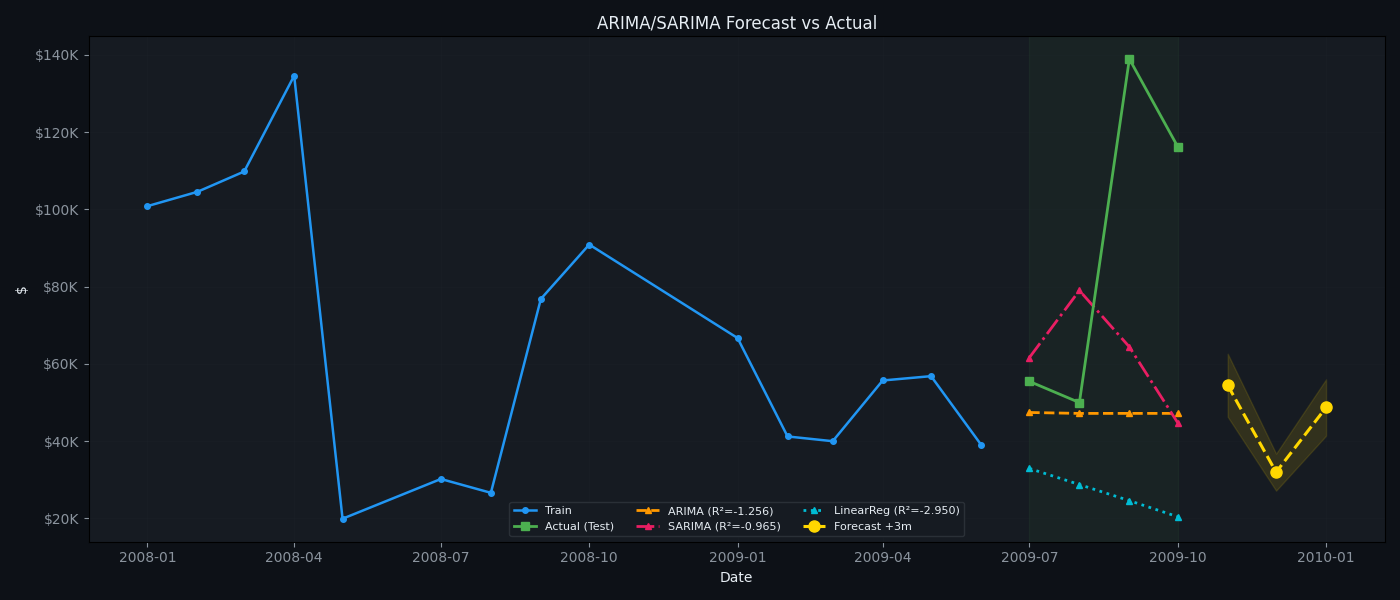
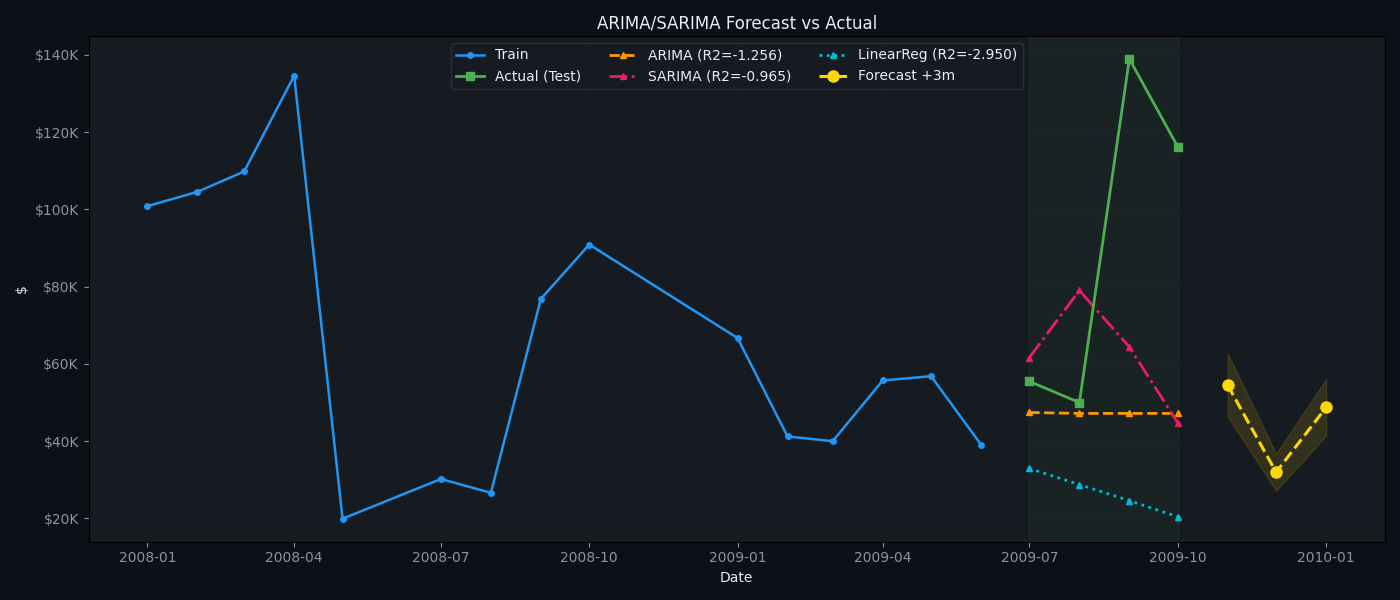
add mlp and lstm

diff --git a/lab-7.py b/lab-7.py
@@ -3,12 +3,16 @@ import numpy as np
 import pandas as pd
 import matplotlib.pyplot as plt
 import matplotlib.ticker as mticker
+from matplotlib.colors import LinearSegmentedColormap
 from statsmodels.tsa.statespace.sarimax import SARIMAX
 from statsmodels.tsa.stattools import adfuller, acf, pacf
 from statsmodels.tsa.seasonal import seasonal_decompose
 from sklearn.linear_model import LinearRegression
 from sklearn.metrics import mean_squared_error, mean_absolute_error, r2_score
-
+from sklearn.preprocessing import MinMaxScaler
+import tensorflow as tf
+from tensorflow import keras
+from tensorflow.keras import layers, callbacks
 
 SEP = "=" * 67
 
@@ -110,14 +114,26 @@ def main():
     arima = arima_res["ARIMA"]
     sarima = arima_res["SARIMA"]
     linear_reg = arima_res["LinearReg"]
+    n_test = arima_res["n_test"]
 
     print(f" ARIMA(1,1,1):  RMSE={arima['rmse']:>10,.2f}  R2={arima['r2']:.4f}  AIC={arima['fit'].aic:.1f}")
     print(f" SARIMA(1,1,1)(1,0,1,4): RMSE={sarima['rmse']:>10,.2f}  R2={sarima['r2']:.4f}  AIC={sarima['fit'].aic:.1f}")
     print(f" Linear Regression (baseline): RMSE={linear_reg['rmse']:>10,.2f}  R2={linear_reg['r2']:.4f}")
-    print(f"\n  Прогноз ({arima_res['best_key']}) на 3 місяці вперед:")
+    
+    print(f"\n  Forecast ({arima_res['best_key']}) 3 months ahead:")
     idx = pd.date_range(arima_res["ts_pos"].index[-1] + pd.DateOffset(months=1), periods=3, freq="MS")
     for d, v in zip(idx, arima_res["forecast_3m"][-3:]):
-        print(f"    {d.strftime('%Y-%m')}: ${v:>10,.2f}")
+        print(f"  {d.strftime('%Y-%m')}: ${v:>10,.2f}")
+
+
+    print(f"\n{SEP}")
+    ann_res = fit_ann(monthly, n_test)
+    print(f"\n  Architecture |  RMSE      |  R2")
+    for arch in ["MLP", "LSTM"]:
+        print(f"  {arch:<12} | {ann_res[arch]['rmse']:>10,.2f} | {ann_res[arch]['r2']:.4f}")
+
+    print(f"\n  Best ANN-architecture: {ann_res['best']}")
+
 
 
     plot_monthly_revenue_stacked(monthly, "l7_monthly_revenue.png")
@@ -134,6 +150,14 @@ def main():
     
     plot_arima_forecast(arima_res, "l7_arima_forecast.png")
 
+    plot_ann_learning_curve(ann_res, "MLP", "l7_mlp_learning.png")
+    plot_ann_learning_curve(ann_res, "LSTM", "l7_lstm_learning.png")
+    plot_ann_forecast(ann_res, "MLP", monthly, "l7_mlp_forecast.png")
+    plot_ann_forecast(ann_res, "LSTM", monthly, "l7_lstm_forecast.png")
+    plot_models_rmse_comparison(arima_res, ann_res, "l7_models_comparison.png")
+
+    plot_manager_month_heatmap(df, "l7_manager_month_heatmap.png")
+    plot_top_customers(customers, "l7_top_customers.png")
 
 
 def load_and_clean():
@@ -312,12 +336,76 @@ def fit_arima(monthly: pd.DataFrame):
     return results
 
 
+WINDOW = 4
+
+def make_sequences(arr: np.ndarray, w: int):
+    X, y = [], []
+    for i in range(len(arr) - w):
+        X.append(arr[i:i+w])
+        y.append(arr[i+w])
+    return np.array(X), np.array(y)
 
 
+def train_ann(ts_values: np.ndarray, n_test: int, arch: str):
+    scaler = MinMaxScaler(feature_range=(0,1))
+    ts_sc = scaler.fit_transform(ts_values.reshape(-1,1)).ravel()
+
+    X, y = make_sequences(ts_sc, WINDOW)
+    X_train, y_train = X[:-n_test], y[:-n_test]
+    X_test, y_test = X[-n_test:], y[-n_test:]
+
+    X_train_3d = X_train[:, :, np.newaxis]
+    X_test_3d = X_test[:, :, np.newaxis]
+
+    if arch == "MLP":
+        model = keras.Sequential([
+            keras.Input(shape=(WINDOW,)),
+            layers.Dense(32, activation="relu"),
+            layers.BatchNormalization(),
+            layers.Dense(16, activation="relu"),
+            layers.Dense(1),
+        ], name="MLP")
+        Xtr, Xte = X_train, X_test
+    else: 
+        model = keras.Sequential([
+            keras.Input(shape=(WINDOW,1)),
+            layers.LSTM(32, return_sequences=True),
+            layers.LSTM(16),
+            layers.Dense(8, activation="relu"),
+            layers.Dense(1),
+        ], name="LSTM")
+        Xtr, Xte = X_train_3d, X_test_3d
+
+    model.compile(optimizer=keras.optimizers.Adam(1e-3), loss="mse")
+    cb = [callbacks.EarlyStopping(patience=20, restore_best_weights=True, verbose=0)]
+    hist = model.fit(Xtr, y_train, epochs=200, batch_size=4, validation_split=0.2, callbacks=cb, verbose=0)
+
+    pred_sc = model.predict(Xte, verbose=0).ravel()
+    pred = scaler.inverse_transform(pred_sc.reshape(-1,1)).ravel()
+    true = scaler.inverse_transform(y_test.reshape(-1,1)).ravel()
+    rmse = np.sqrt(mean_squared_error(true, pred))
+    r2 = r2_score(true, pred)
+
+    return dict(model=model, hist=hist, pred=pred, true=true,
+                rmse=rmse, r2=r2, scaler=scaler,
+                X_train=Xtr, y_train=y_train)
 
 
+def fit_ann(monthly: pd.DataFrame, n_test: int):
+    ts = monthly.set_index("YearMonth")["Revenue"]
+    ts.index = ts.index.to_timestamp()
+    ts_pos = ts[ts > 0].values
 
+    results = {}
+    for arch in ["MLP", "LSTM"]:
+        r = train_ann(ts_pos, n_test, arch)
+        results[arch] = r
 
+    best = min(results, key=lambda k: results[k]["rmse"])
+    results["best"] = best
+    results["ts_pos"] = ts_pos
+    results["n_test"] = n_test
+    return results
 
 
 def fmt_usd(x, _=None):
@@ -588,9 +676,123 @@ def plot_arima_forecast(arima_res, fname):
     plt.show()
 
 
+def plot_ann_learning_curve(ann_res, architecture, fname):
+    fig, ax = plt.subplots(figsize=(10, 6), facecolor=C["bg"])
+    
+    r_ = ann_res[architecture]
+    hist = r_["hist"]
+    ep = range(1, len(hist.history["loss"]) + 1)
+    
+    ax.plot(ep, hist.history["loss"], color=C["c2"], lw=1.8, label="Train")
+    ax.plot(ep, hist.history["val_loss"], color=C["c3"], lw=1.8, ls="--", label="Validation")
+    
+    set_axis_style(ax, f"{architecture}: Learning Curve (MSE Loss)", "Epoch", "Loss")
+    ax.legend(facecolor=C["panel"], edgecolor=C["grid"], labelcolor=C["text"])
+    
+    plt.tight_layout()
+    path = os.path.join(OUTPUT_DIR, fname)
+    plt.savefig(path)
+    plt.show()
 
 
+def plot_ann_forecast(ann_res, architecture, monthly, fname):
+    fig, ax = plt.subplots(figsize=(12, 6), facecolor=C["bg"])
+    
+    ts_obj = monthly.set_index("YearMonth")["Revenue"]
+    ts_obj.index = ts_obj.index.to_timestamp()
+    ts_obj = ts_obj[ts_obj > 0]
+    
+    r_ = ann_res[architecture]
+    n_show = len(r_["true"])
+    idx = ts_obj.index[-n_show:]
+    
+    ax.plot(idx, r_["true"], color=C["c0"], lw=2.0, marker="o", ms=6, label="Actual")
+    ax.plot(idx, r_["pred"], color=C["c1"], lw=2.0, ls="--", marker="s", ms=6, label=f"{architecture} (R2={r_['r2']:.4f})")
+    ax.fill_between(idx, r_["true"], r_["pred"], alpha=0.15, color=C["c3"])
+    
+    ax.yaxis.set_major_formatter(mticker.FuncFormatter(fmt_usd))
+    set_axis_style(ax, f"{architecture}: Forecast vs Actual (Test)", "Date", "$")
+    ax.legend(facecolor=C["panel"], edgecolor=C["grid"], labelcolor=C["text"])
+    
+    plt.tight_layout()
+    path = os.path.join(OUTPUT_DIR, fname)
+    plt.savefig(path)
+    plt.show()
 
+
+def plot_models_rmse_comparison(arima_res, ann_res, fname):
+    fig, ax = plt.subplots(figsize=(12, 6), facecolor=C["bg"])
+    
+    all_methods = {}
+    for k in ["ARIMA", "SARIMA", "LinearReg"]:
+        if k in arima_res:
+            all_methods[k] = {"rmse": arima_res[k]["rmse"], "r2": arima_res[k]["r2"]}
+    for k in ["MLP", "LSTM"]:
+        all_methods[k] = {"rmse": ann_res[k]["rmse"], "r2": ann_res[k]["r2"]}
+    
+    names_all = list(all_methods.keys())
+    rmses_all = [all_methods[k]["rmse"] for k in names_all]
+    best_all = names_all[np.argmin(rmses_all)]
+    
+    clrs_all = [C["best"] if n == best_all else PAL8[i % len(PAL8)] for i, n in enumerate(names_all)]
+    
+    bars = ax.bar(names_all, rmses_all, color=clrs_all, alpha=0.85, edgecolor=C["grid"])
+    for bar, v in zip(bars, rmses_all):
+        ax.text(bar.get_x() + bar.get_width()/2, bar.get_height() + 200, f"${v:,.0f}", ha="center", va="bottom", color=C["text"])
+    
+    ax.yaxis.set_major_formatter(mticker.FuncFormatter(fmt_usd))
+    set_axis_style(ax, "RMSE Comparison: ARIMA vs ANN", "", "RMSE ($)")
+
+    plt.tight_layout()
+    path = os.path.join(OUTPUT_DIR, fname)
+    plt.savefig(path)
+    plt.show()
+
+
+def plot_manager_month_heatmap(df, fname):
+    fig, ax = plt.subplots(figsize=(14, 8), facecolor=C["bg"])
+    cmap_heat = LinearSegmentedColormap.from_list("rev", ["#0D1117", "#1565C0", "#FF8F00", "#E53935"])
+    
+    emp_short = {n: n.split()[-1] for n in df["EmployeeName"].unique()}
+    df["EmpShort"] = df["EmployeeName"].map(emp_short)
+    
+    pivot_em = (df.groupby(["EmpShort", df["OrderDate"].dt.month])["Revenue"].sum().unstack(fill_value=0))
+    im2 = ax.imshow(pivot_em.values, cmap=cmap_heat, aspect="auto")
+    
+    ax.set_xticks(range(12))
+    ax.set_xticklabels([f"M{m+1}" for m in range(12)], color=C["text"])
+    ax.set_yticks(range(len(pivot_em.index)))
+    ax.set_yticklabels(pivot_em.index.tolist(), color=C["text"])
+    
+    plt.colorbar(im2, ax=ax, fraction=0.04)
+    set_axis_style(ax, "Manager * Month (Revenue $)")
+    
+    plt.tight_layout()
+    path = os.path.join(OUTPUT_DIR, fname)
+    plt.savefig(path)
+    plt.show()
+
+
+def plot_top_customers(customers, fname):
+    fig, ax = plt.subplots(figsize=(12, 8), facecolor=C["bg"])
+    
+    top15 = customers.head(15)
+    short_cust = [n.split()[-1] for n in top15.index]
+    abc_clr = {"A": C["best"], "B": C["gold"], "C": C["worst"]}
+    bar_colors = [abc_clr.get(str(top15.iloc[i]["ABC"]), C["c0"]) for i in range(len(top15))]
+    
+    ax.barh(short_cust[::-1], top15["Revenue"].values[::-1], color=bar_colors[::-1], alpha=0.85, edgecolor=C["grid"])
+    
+    ax.xaxis.set_major_formatter(mticker.FuncFormatter(fmt_usd))
+    set_axis_style(ax, "Top-15 Customers", "$", "")
+    
+    handles = [plt.Rectangle((0, 0), 1, 1, color=abc_clr[k], alpha=0.85) for k in ["A", "B", "C"]]
+    ax.legend(handles, ["A (80%)", "B (15%)", "C (5%)"], facecolor=C["panel"], edgecolor=C["grid"], labelcolor=C["text"])
+
+    plt.tight_layout()
+    path = os.path.join(OUTPUT_DIR, fname)
+    plt.savefig(path)
+    plt.show()
 
 
 if __name__ == "__main__":